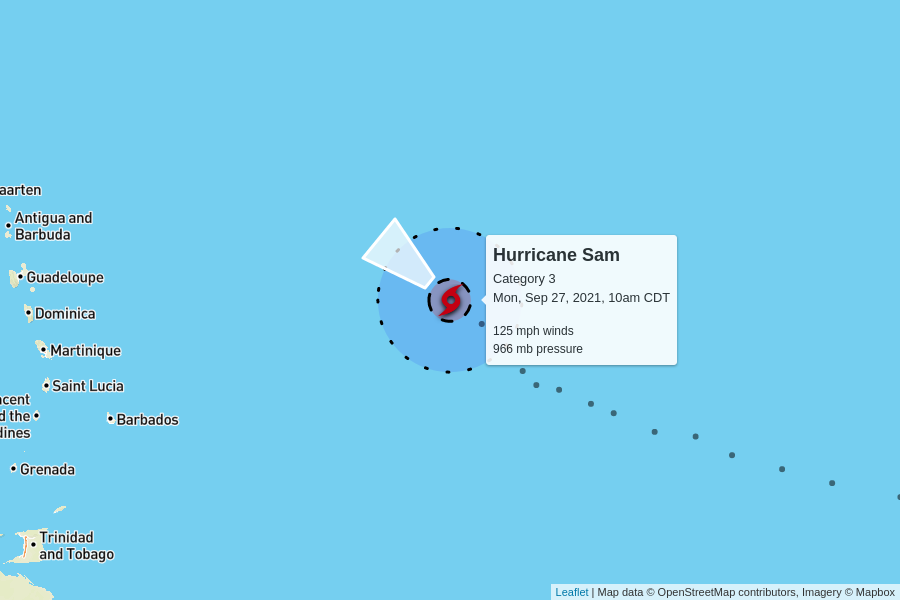
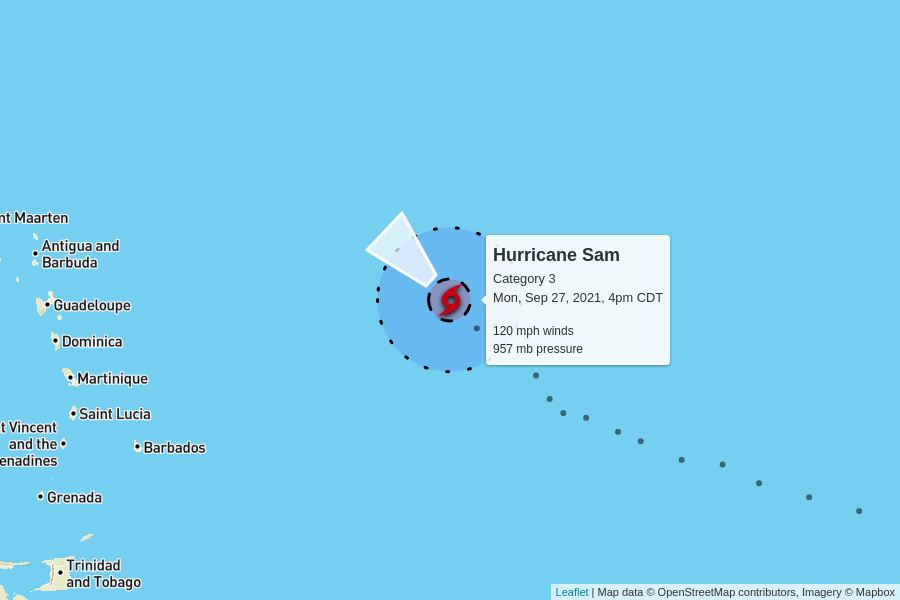
automatic update

diff --git a/docs/index.html b/docs/index.html
@@ -100,7 +100,7 @@
         <td colspan="6" class="storm category-3" >
           <h2>
             Hurricane Sam - Category 3
-            <p class="updated">last updated <span data-time>2021-09-27T15:00:00.000Z</span></p>
+            <p class="updated">last updated <span data-time>2021-09-27T21:00:00.000Z</span></p>
           </h2>
         </td>
       </tr>
@@ -115,12 +115,12 @@
       </tr>
       <tr>
         <td class="spacer"></td>
-        <td>125 mph</td>
-        <td>966 mb</td>
+        <td>120 mph</td>
+        <td>957 mb</td>
         <td>
-          8 mph to the northwest
+          9 mph to the northwest
           <br/>
-          <span style="display: inline-block; font-size: 1.5em; transform: rotate(310deg);">↑</span>
+          <span style="display: inline-block; font-size: 1.5em; transform: rotate(315deg);">↑</span>
         </td>
         <td><a href="https://raw.githubusercontent.com/mgwalker/atlantic-hurricanes/main/data/csv/AL182021.csv">AL182021.csv</a></td>
         <td><a href="https://www.nhc.noaa.gov/archive/2021/SAM.shtml?">NHC advisories</a></td>
